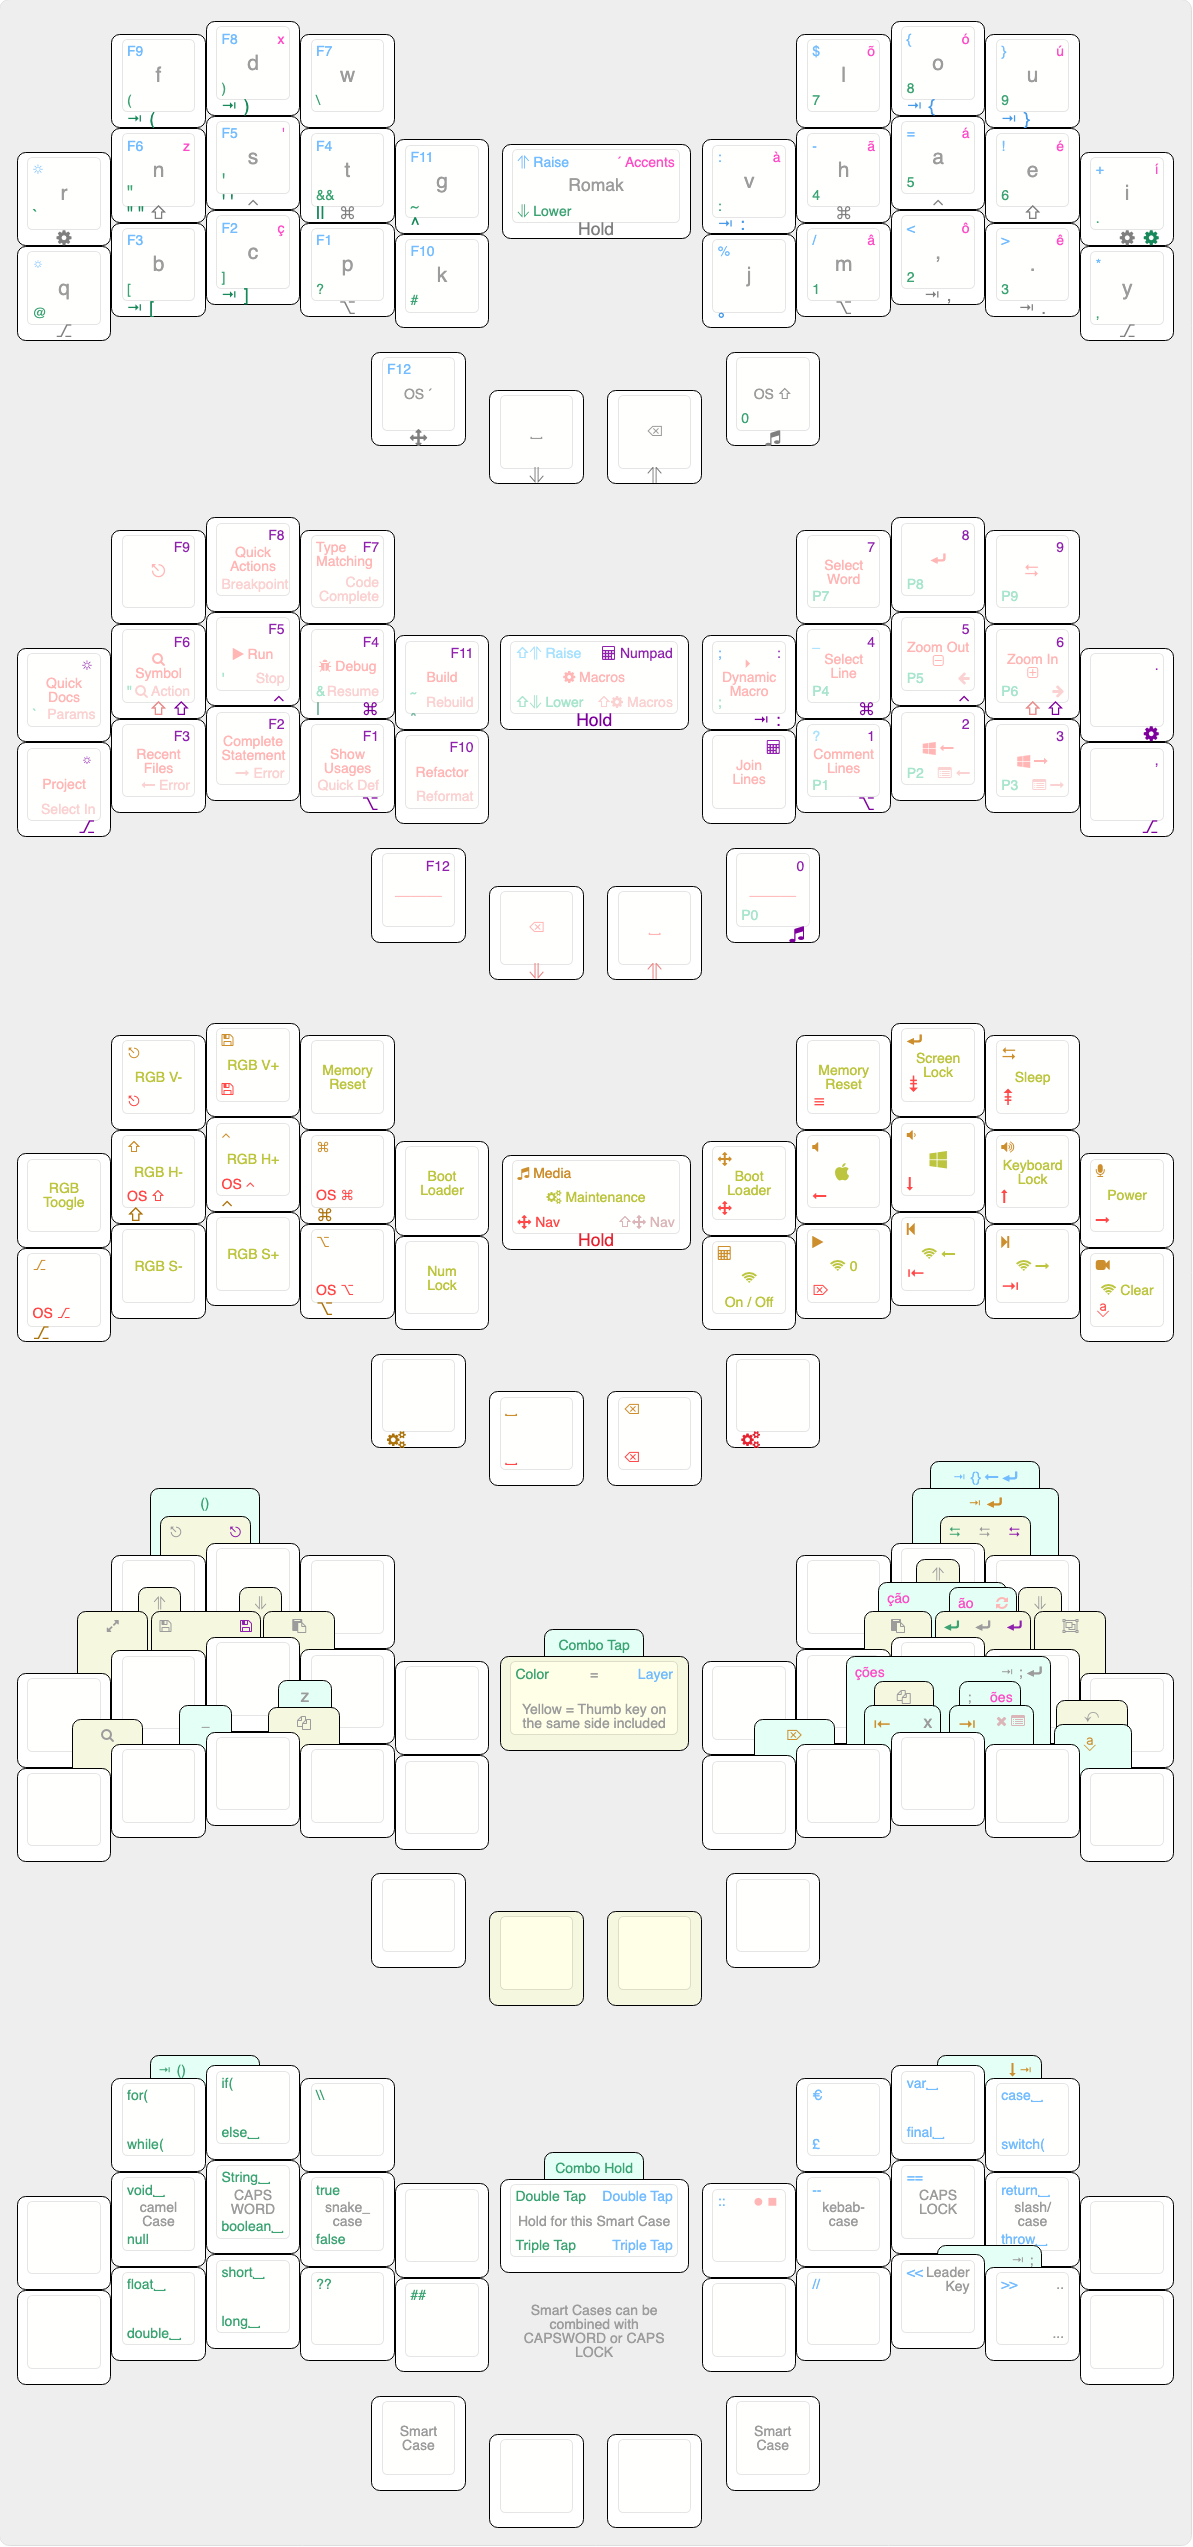
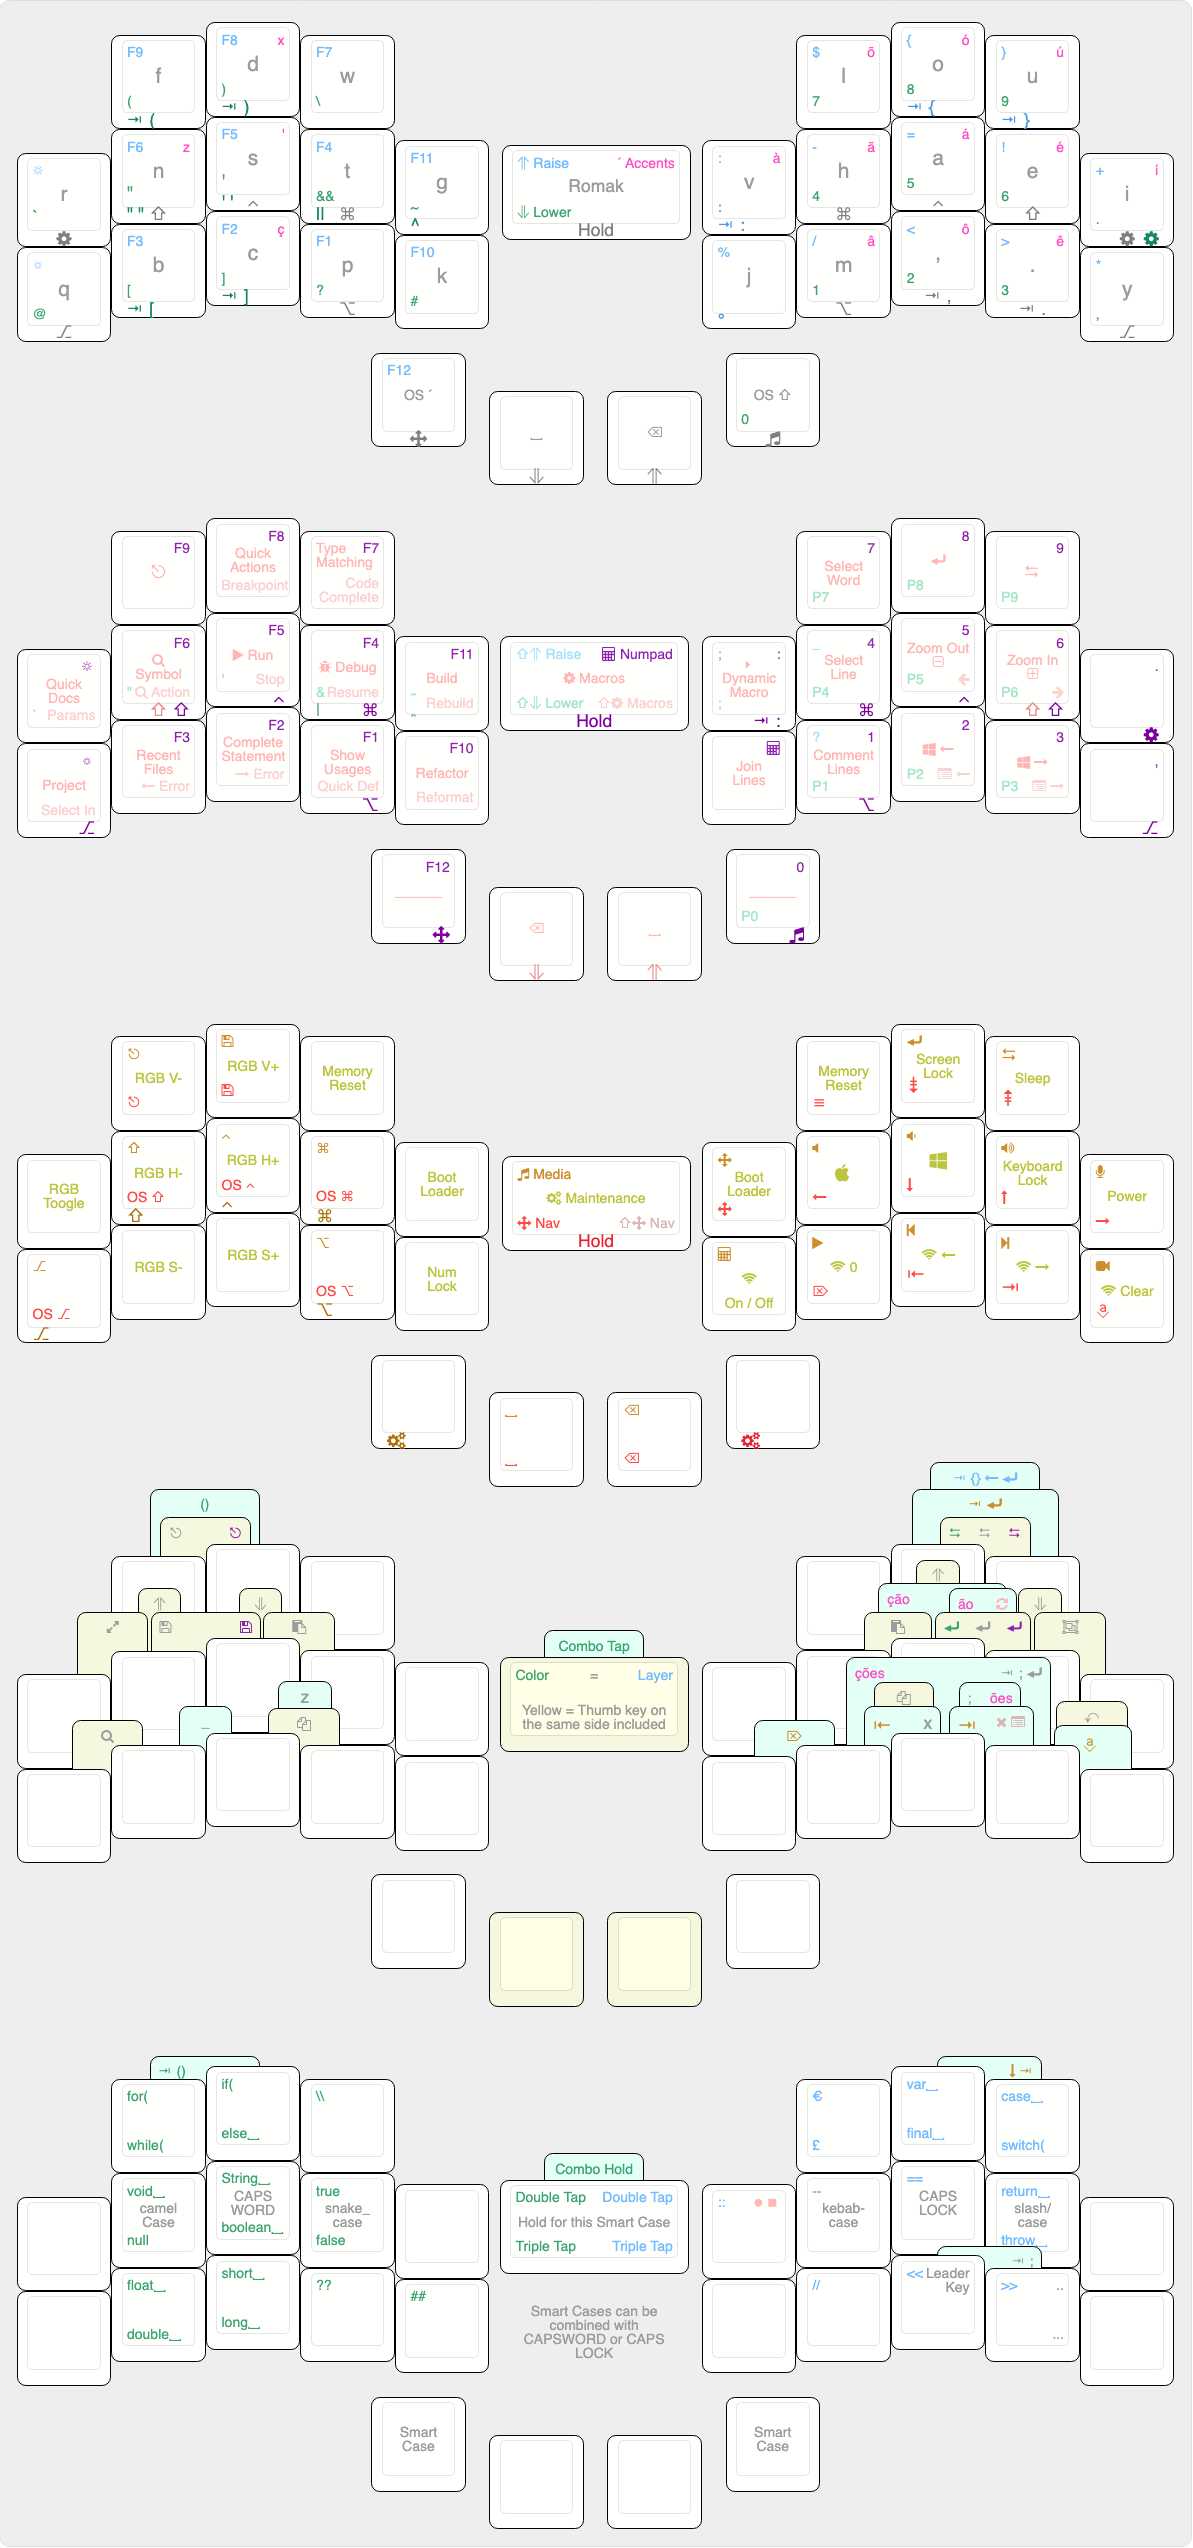
fix nav_f12

diff --git a/src/qmk/users/rafaelromao/definitions/keymap_blocks.h b/src/qmk/users/rafaelromao/definitions/keymap_blocks.h
@@ -28,7 +28,7 @@
 #define ___________________NUMPAD_L1___________________ XXXXXXX , KC_F9   , KC_F8   , KC_F7   , XXXXXXX
 #define ___________________NUMPAD_L2___________________ KC_F15  , SF_F6   , CT_F5   , GU_F4   , KC_F11
 #define ___________________NUMPAD_L3___________________ AL_F14  , KC_F3   , KC_F2   , AL_F1   , KC_F10
-#define ____NUMPAD_L4____                                                             KC_F12  , LOW_SPC
+#define ____NUMPAD_L4____                                                             NAV_F12 , LOW_SPC
 
 #define ___________________NUMPAD_R1___________________ XXXXXXX , KC_7    , KC_8    , KC_9    , XXXXXXX
 #define ___________________NUMPAD_R2___________________ TD_COLN , GU_4    , CT_5    , SF_6    , DOT_MAC
@@ -58,7 +58,7 @@
 #define ___________________RAISE_L1____________________ XXXXXXX , KC_F9   , KC_F8   , KC_F7   , XXXXXXX
 #define ___________________RAISE_L2____________________ KC_F15  , KC_F6   , KC_F5   , KC_F4   , KC_F11
 #define ___________________RAISE_L3____________________ KC_F14  , KC_F3   , KC_F2   , KC_F1   , KC_F10
-#define ____RAISE_L4_____                                                             KC_F12  , _______
+#define ____RAISE_L4_____                                                             NAV_F12 , _______
 
 #define ___________________RAISE_R1____________________ KC_CIRC , TD_DLR  , TD_LCRB , TD_RCRB , XXXXXXX
 #define ___________________RAISE_R2____________________ TD_COLN , KC_MINS , KC_EQL  , TD_NOT  , KC_PLUS

diff --git a/src/qmk/users/rafaelromao/definitions/keycodes.h b/src/qmk/users/rafaelromao/definitions/keycodes.h
@@ -145,6 +145,7 @@ enum {
 // Layer-taps
 
 #define NAV_ACT  LT(_NAVIGATION, OS_ACNT)
+#define NAV_F12  LT(_NAVIGATION, KC_F12)
 
 #define MED_CAS LT(_MEDIA, TG_CASE)
 #define MED_0   LT(_MEDIA, KC_0)
